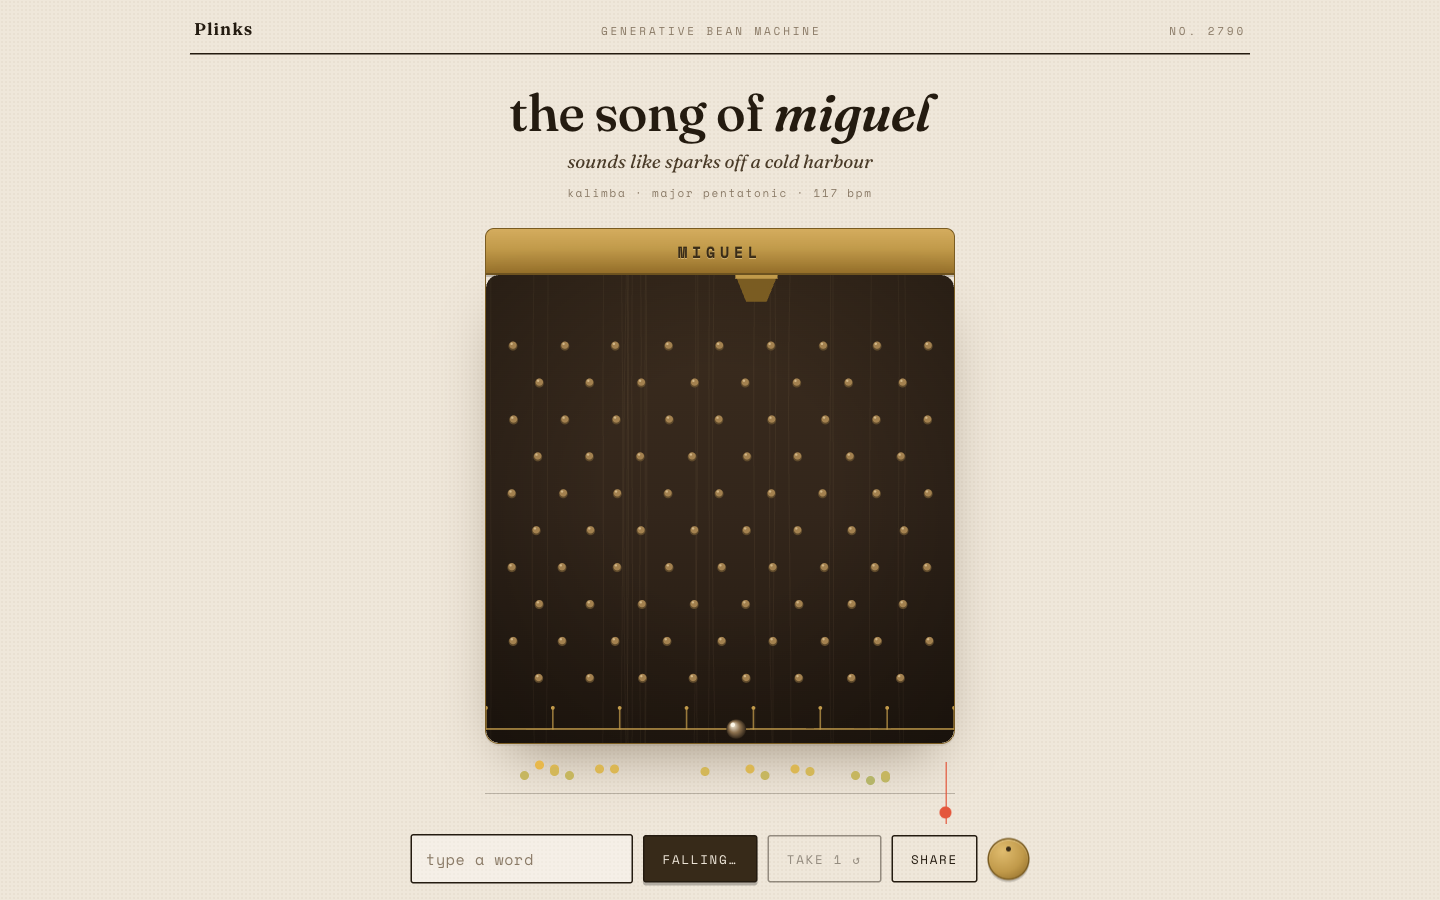
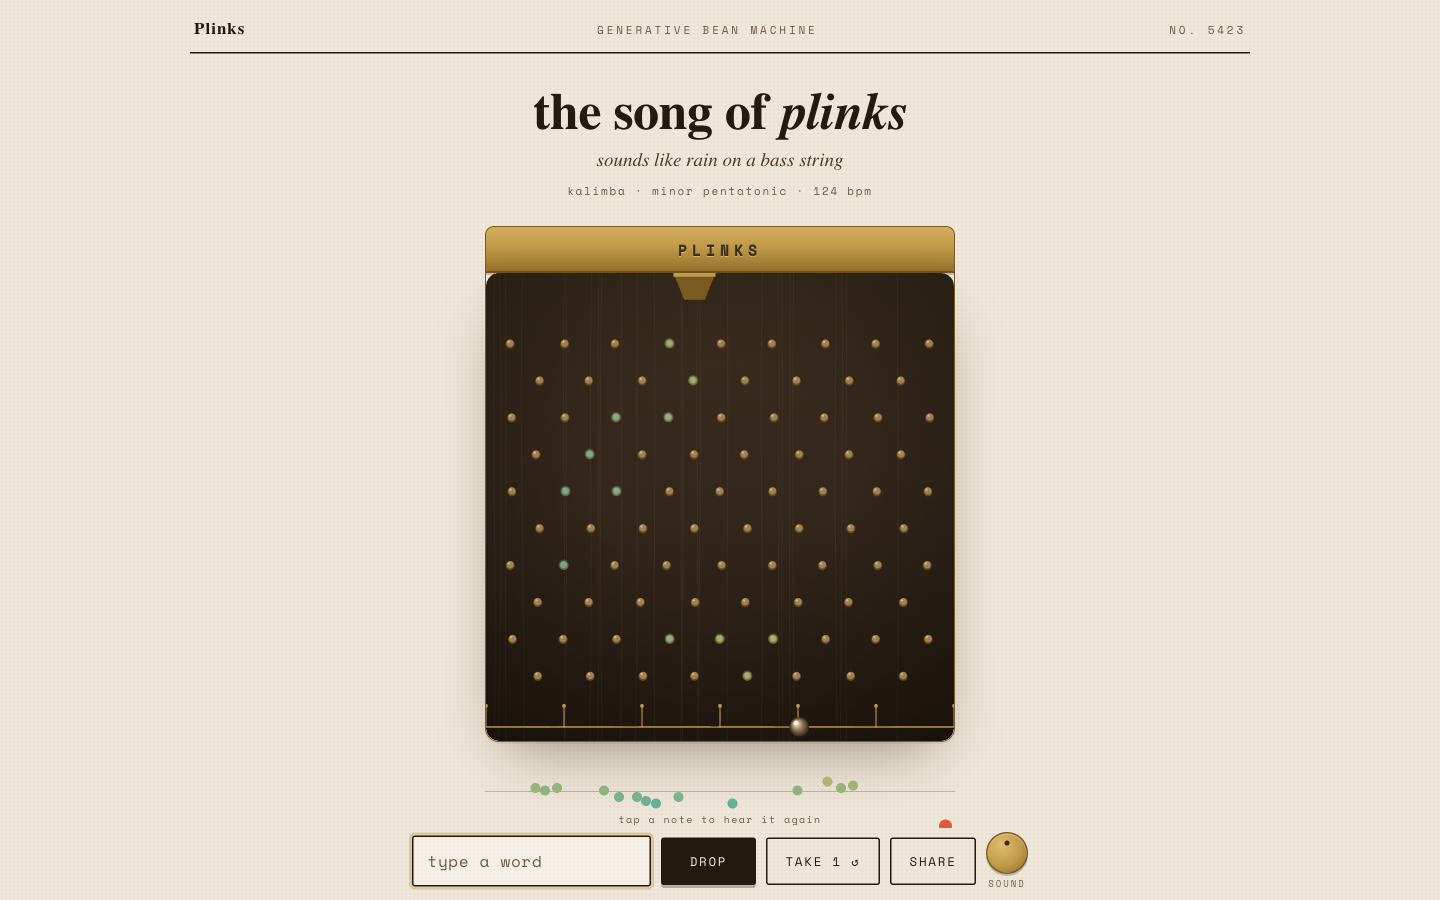
fix: design round-2 — one clock, one palette
- audio schedules on physical collision time; flashes, score reveal
  and basin flash share the same clock — impact causes sound
- score positions dots by impact time; colors use the board pitch
  range so a dot visibly matches its peg
- word stamp capped at ~500ms regardless of length
- replaying a note repaints the peg (or basin for the tonic)
- mobile: scrollable score strip, 12px micro-type, short-viewport budget

Generated with [Devin](https://devin.ai)

diff --git a/src/components.tsx b/src/components.tsx
@@ -8,13 +8,14 @@ import { ramp } from './board';
 // ── brass rail: the word stamps in, letter by letter ──
 export function Rail({ word }: { word: string }) {
   const letters = word.toUpperCase().split('');
+  const stagger = Math.min(75, 480 / letters.length); // whole word lands in ~500ms
   return (
     <div className="rail" role="img" aria-label={`The word ${word} stamped in brass`}>
       {letters.map((ch, i) => (
         <span
           key={`${word}-${i}`}
           className="rail-letter"
-          style={{ animationDelay: `${i * 75}ms` }}
+          style={{ animationDelay: `${i * stagger}ms` }}
           onAnimationStart={() => {
             if (audioEngine.ready && !audioEngine.muted) audioEngine.knock(0, 320 + i * 14, 0.04);
           }}
@@ -29,22 +30,24 @@ export function Rail({ word }: { word: string }) {
 // ── the score: dots on a rhythm rail, revealed as they ring ──
 export function ScoreRail({ song, drop, pb }: { song: Song; drop: DropResult; pb: Playback }) {
   const evs = drop.events;
-  const lastT = evs.length ? evs[evs.length - 1].tGrid : 1;
-  const midis = evs.map(e => e.midi);
+  const lastT = evs.length ? evs[evs.length - 1].t : 1;
+  // colors share the board's full pitch range so a dot matches its peg
+  const midis = song.board.pegs.map(p => p.midi);
   const lo = Math.min(...midis), hi = Math.max(...midis);
   const revealed = pb.phase === 'settled' ? Infinity : pb.progress * lastT;
 
   return (
     <div className="score" aria-label="The melody as a rail of notes">
+      <div className="score-inner">
       <div className="score-rule" />
       {pb.phase === 'dropping' && (
         <div className="score-playhead" style={{ left: `${2 + pb.progress * 96}%` }} />
       )}
       {evs.map((e, i) => {
-        const x = 2 + (e.tGrid / Math.max(lastT, 0.001)) * 96;
+        const x = 2 + (e.t / Math.max(lastT, 0.001)) * 96;
         const u = hi > lo ? (e.midi - lo) / (hi - lo) : 0.5;
         const y = 12 + (1 - u) * 64;
-        const on = e.tGrid <= revealed + 0.001;
+        const on = e.t <= revealed + 0.001;
         return (
           <button
             key={i}
@@ -63,6 +66,7 @@ export function ScoreRail({ song, drop, pb }: { song: Song; drop: DropResult; pb
       {pb.phase === 'idle' && evs.length > 0 && (
         <div className="score-hint">the score appears as the marble plays</div>
       )}
+      </div>
       {pb.phase === 'settled' && (
         <div className="score-caption">tap a note to hear it again</div>
       )}

diff --git a/src/App.css b/src/App.css
@@ -144,6 +144,13 @@ body {
   height: 74px;
   margin-top: 12px;
   width: 100%;
+  overflow-x: auto;
+  scrollbar-width: none;
+}
+.score::-webkit-scrollbar { display: none; }
+.score-inner { position: relative; height: 100%; min-width: 100%; }
+@media (max-width: 560px) {
+  .score-inner { width: 175%; } /* notes get real spacing on small screens */
 }
 .score-rule {
   position: absolute; left: 0; right: 0; top: 50%;
@@ -180,6 +187,7 @@ body {
   100% { transform: translate(-50%,-50%) scale(1); }
 }
 .score-dot:hover { box-shadow: 0 0 0 3px rgba(193,154,74,0.35); }
+.score-dot:active { transform: translate(-50%,-50%) scale(1.35); box-shadow: 0 0 0 4px rgba(228,87,60,0.3); }
 .score-dot:focus-visible { outline: 2px solid var(--ember); outline-offset: 2px; }
 .score-dot-tonic { border-width: 4.5px; }
 .score-dot:disabled { cursor: default; }
@@ -347,4 +355,18 @@ body {
   font-size: 10px; letter-spacing: 0.14em; color: var(--dim);
   pointer-events: none;
   padding-bottom: 2px;
+}
+
+@media (max-width: 560px) {
+  .mute-tag { font-size: 12px; letter-spacing: 0.14em; }
+  .score-caption { font-size: 12px; letter-spacing: 0.1em; }
+  .score-hint { font-size: 12px; letter-spacing: 0.1em; }
+}
+@media (max-height: 700px) {
+  .hero { margin-top: 14px; }
+  .epithet { margin-top: 6px; }
+  .meta { margin-top: 8px; }
+  .instrument { margin-top: 12px; width: min(470px, 94vw, 46vh); }
+  .score { height: 62px; margin-top: 8px; }
+  .footer { padding-top: 18px; }
 }

diff --git a/src/playback.ts b/src/playback.ts
@@ -109,7 +109,7 @@ export function usePlayback(song: Song, take: number): Playback {
       }
 
       // flashes land on the *audible* (quantized) note so sound and light agree
-      while (ei < drop.events.length && drop.events[ei].tGrid + LEAD <= ts) {
+      while (ei < drop.events.length && drop.events[ei].t + LEAD <= ts) {
         const e = drop.events[ei++];
         if (e.pegId >= 0) {
           s.flashes.set(e.pegId, now);
@@ -118,7 +118,7 @@ export function usePlayback(song: Song, take: number): Playback {
           if (navigator.vibrate) navigator.vibrate(3);
         }
       }
-      const lastGrid = drop.events.length ? drop.events[drop.events.length - 1].tGrid + LEAD : 1;
+      const lastGrid = drop.events.length ? drop.events[drop.events.length - 1].t + LEAD : 1;
       s.progress = Math.min(1, ts / Math.max(0.001, lastGrid));
       const land = drop.events[drop.events.length - 1];
       if (land && land.t <= ts && s.basinFlash === null) {
@@ -153,6 +153,7 @@ export function usePlayback(song: Song, take: number): Playback {
       const now = performance.now() / 1000;
       if (pegId >= 0) st.current.flashes.set(pegId, now);
       else st.current.basinFlash = now; // replaying the tonic lights the basin
+      force(v => v + 1); // publish the flash to the canvas's snapshot
       if (audioEngine.ready && !audioEngine.muted) audioEngine.strike(midi, vel);
     },
   };

diff --git a/src/share.ts b/src/share.ts
@@ -54,7 +54,7 @@ export async function shareCardPng(song: Song, drop: DropResult, take: number): 
 
   // score rail
   const evs = drop.events;
-  const lastT = evs.length ? evs[evs.length - 1].tGrid : 1;
+  const lastT = evs.length ? evs[evs.length - 1].t : 1;
   const midis = evs.map(e => e.midi);
   const lo = Math.min(...midis), hi = Math.max(...midis);
   const sx0 = 110, sx1 = W - 110, sy = 440, sh = 120;
@@ -62,7 +62,7 @@ export async function shareCardPng(song: Song, drop: DropResult, take: number): 
   ctx.beginPath(); ctx.moveTo(sx0, sy); ctx.lineTo(sx1, sy); ctx.stroke();
   for (const e of evs) {
     const u = hi > lo ? (e.midi - lo) / (hi - lo) : 0.5;
-    const x = sx0 + (e.tGrid / Math.max(lastT, 0.001)) * (sx1 - sx0);
+    const x = sx0 + (e.t / Math.max(lastT, 0.001)) * (sx1 - sx0);
     const y = sy + (u - 0.5) * -sh * 0.8;
     ctx.fillStyle = e.pegId === -1 ? '#E4573C' : ramp(u);
     ctx.beginPath();

diff --git a/src/og.tsx b/src/og.tsx
@@ -8,7 +8,7 @@ export function OgCard() {
   const song = songFor('plinks')!;
   const drop = simulate(song, 1);
   const evs = drop.events;
-  const lastT = evs.length ? evs[evs.length - 1].tGrid : 1;
+  const lastT = evs.length ? evs[evs.length - 1].t : 1;
   const midis = evs.map(e => e.midi);
   const lo = Math.min(...midis), hi = Math.max(...midis);
 
@@ -42,7 +42,7 @@ export function OgCard() {
         <line x1="110" y1="90" x2="1090" y2="90" stroke="rgba(36,27,16,0.25)" />
         {evs.map((e, i) => {
           const u = hi > lo ? (e.midi - lo) / (hi - lo) : 0.5;
-          const x = 110 + (e.tGrid / Math.max(lastT, 0.001)) * 980;
+          const x = 110 + (e.t / Math.max(lastT, 0.001)) * 980;
           const y = 90 - (u - 0.5) * 96;
           return <circle key={i} cx={x} cy={y} r={e.pegId === -1 ? 9 : 6.5} fill={e.pegId === -1 ? '#E4573C' : ramp(u)} />;
         })}

diff --git a/src/lib/audio.ts b/src/lib/audio.ts
@@ -134,8 +134,8 @@ export class AudioEngine {
 
   // schedule a whole melody; returns scheduled end time
   playEvents(events: NoteEventLike[], t0: number): number {
-    for (const e of events) this.strike(e.midi, e.vel, t0 + e.tGrid);
-    return t0 + (events.length ? events[events.length - 1].tGrid : 0) + 2.2;
+    for (const e of events) this.strike(e.midi, e.vel, t0 + e.t);
+    return t0 + (events.length ? events[events.length - 1].t : 0) + 2.2;
   }
 
   now(): number { return this.ctx ? this.ctx.currentTime : 0; }

diff --git a/src/lib/types.ts b/src/lib/types.ts
@@ -1,4 +1,5 @@
 export interface NoteEventLike {
+  t: number;
   tGrid: number;
   midi: number;
   vel: number;
